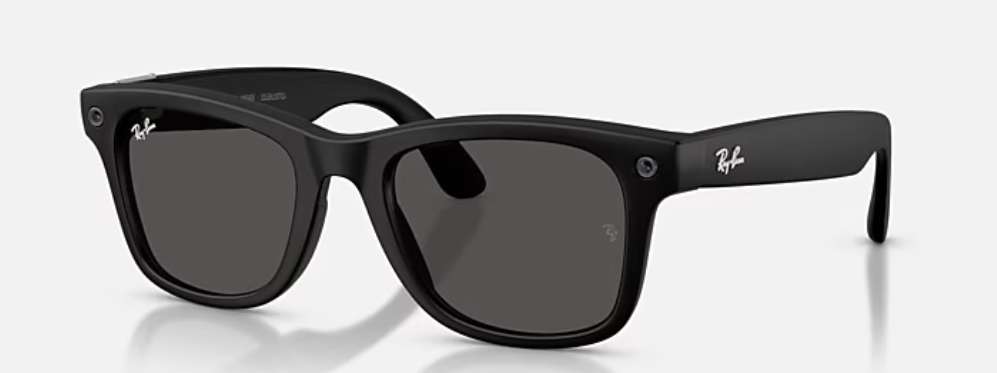
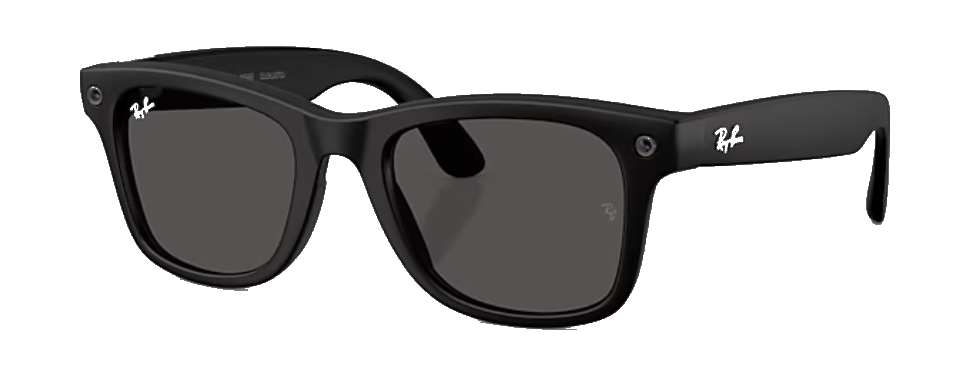
Slide Ray-Ban Meta: só a imagem (recorte transparente), sem texto
- Usa a foto real public/fotos/raybanmeta.png, agora com fundo removido
  (recorte transparente), para os óculos assentarem sobre o fundo do carrossel.
- Slide sem qualquer texto (título/subtítulo) — fica só a imagem + CTA
  'Saber mais'. Removida a nota '(imagem provisória...)' e o placeholder antigo.
- Imagem centrada e enquadrada à largura do slide, como os outros.

Claude-Session: https://claude.ai/code/session_019wUjLgzdyjUUhGwQronu7U

Changed region(s): [[0.0619, 0.118, 0.9278, 1.0]]

diff --git a/src/App.tsx b/src/App.tsx
@@ -3229,19 +3229,13 @@ function BookingModal({ isOpen, onClose, service }) {
     const slides = [
       {
         id: 0,
-        // SLIDE RAY-BAN META — slide normal do carrossel (imagem + botão).
-        // Texto combinado para este slide (deve ficar no próprio grafismo da
-        // imagem, como nos outros slides):
-        //   Título: "Já temos Ray-Ban Meta"
-        //   Frase:  "Os óculos inteligentes da Ray-Ban chegaram à Óptica 13 —
-        //            câmara, áudio e Meta AI, na armação de sempre.
-        //            Venha ver e experimentar em loja."
-        // >>> PARA PÔR A FOTO REAL: basta substituir o ficheiro
-        //     public/fotos/raybanmeta-placeholder.jpg pela imagem definitiva
-        //     (mesma proporção 2:1 dos outros slides). Não é preciso tocar em
-        //     mais nada aqui.
-        img: "/fotos/raybanmeta-placeholder.jpg",
-        alt: "Já temos Ray-Ban Meta — óculos inteligentes com câmara, áudio e Meta AI",
+        // SLIDE RAY-BAN META — slide normal do carrossel (só imagem + botão).
+        // A imagem é um recorte (PNG com fundo transparente) dos óculos, para
+        // assentarem diretamente sobre o fundo do carrossel. Para a trocar,
+        // substituir public/fotos/raybanmeta.png (de preferência já recortado,
+        // em PNG transparente).
+        img: "/fotos/raybanmeta.png",
+        alt: "Ray-Ban Meta — óculos inteligentes com câmara, áudio e Meta AI",
         btnText: "Saber mais",
         btnAction: () => setPage("contact"),
       },
